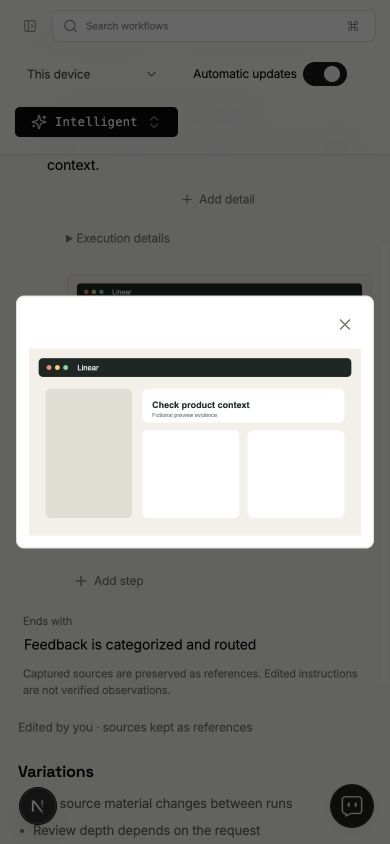
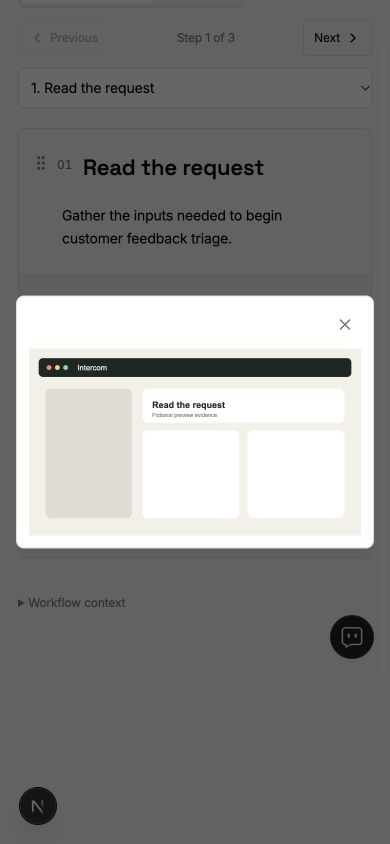
fix(workflows): make walkthrough readable and hide editing clutter

diff --git a/packages/workflows-ui/src/workflow-editor.tsx b/packages/workflows-ui/src/workflow-editor.tsx
@@ -17,6 +17,9 @@ import {
   Info,
   ChevronLeft,
   ChevronRight,
+  PanelsTopLeft,
+  ListOrdered,
+  X,
 } from "lucide-react";
 import type { WorkflowMap, WorkflowStage } from "./model";
 import {
@@ -91,7 +94,7 @@ export function WorkflowEditor({ workflow, save, actions, secondaryActions = [],
     return initial;
   });
   const exports = useWorkflowDocumentExports(draft, downloadDocument);
-  const [view, setView] = useState<"steps" | "walkthrough">("steps");
+  const [view, setView] = useState<"steps" | "walkthrough">("walkthrough");
   const [selectedStep, setSelectedStep] = useState(draft.stages[0]?.key);
   const stepIndex = Math.max(0, draft.stages.findIndex(stage => stage.key === selectedStep));
   const walkthrough = !stepsOnly && view === "walkthrough";
@@ -222,7 +225,7 @@ export function WorkflowEditor({ workflow, save, actions, secondaryActions = [],
     focusField(`Block ${stage.procedure.length + 1} in step ${index + 1}`);
   }
   function insertion(index: number) {
-    return <div className={styles.insertion} hidden={walkthrough && index !== stepIndex}>
+    return <div className={styles.insertion} hidden={walkthrough}>
       <button type="button" aria-label={index === 0 ? "Add step at start" : `Add step after ${index}`}
         title="Add step" disabled={draft.stages.length >= 100} onClick={() => addStage(index)}>
         <Plus size={16} aria-hidden="true" />
@@ -308,7 +311,7 @@ export function WorkflowEditor({ workflow, save, actions, secondaryActions = [],
   return (
     <section
       ref={editorRoot}
-      className={`${styles.editor} ${panel ? styles.withPanel : ""}`}
+      className={`${styles.editor} ${walkthrough ? styles.walkthrough : ""} ${panel ? styles.withPanel : ""}`}
       onMouseUp={event => {
         const selection = window.getSelection(); const value = selection?.toString().trim();
         if (!value || value.length > 1000 || !event.currentTarget.contains(selection?.anchorNode ?? null) || !event.currentTarget.contains(selection?.focusNode ?? null)) return;
@@ -383,15 +386,20 @@ export function WorkflowEditor({ workflow, save, actions, secondaryActions = [],
           </div>
           {stepsOnly ? <p className={styles.readOnlyText}>{workflow.description}</p> : <Text label="Workflow description" value={draft.description} onChange={description => change({ ...draft, description })} />}
         </div>
-        <label className={styles.endpoint}>
+        <label className={styles.endpoint} hidden={walkthrough}>
           Starts when
           {stepsOnly ? <span className={styles.readOnlyText}>{workflow.trigger}</span> : <Text label="Workflow trigger" value={draft.trigger} onChange={trigger => change({ ...draft, trigger })} />}
         </label>
         <div className={styles.stepsHeading}>
           {stepsOnly ? <strong>Steps</strong> : <div role="group" aria-label="Workflow view" className={styles.viewSwitch}>
-            <button type="button" aria-pressed={view === "steps"} onClick={() => setView("steps")}>Steps</button>
-            <button type="button" aria-pressed={view === "walkthrough"} onClick={() => setView("walkthrough")}>Walkthrough</button>
+            <button type="button" aria-pressed={view === "walkthrough"} onClick={() => setView("walkthrough")}><PanelsTopLeft size={16} aria-hidden="true" />Walkthrough</button>
+            <button type="button" aria-pressed={view === "steps"} onClick={() => setView("steps")}><ListOrdered size={16} aria-hidden="true" />Steps</button>
           </div>}
+        {walkthrough && draft.stages.length > 0 && <nav aria-label="Walkthrough navigation" className={styles.walkthroughNavigation}>
+          <button type="button" disabled={stepIndex === 0} onClick={() => chooseStep(stepIndex - 1)}><ChevronLeft size={16} />Previous</button>
+          <span role="status" aria-live="polite">Step {stepIndex + 1} of {draft.stages.length}</span>
+          <button type="button" disabled={stepIndex === draft.stages.length - 1} onClick={() => chooseStep(stepIndex + 1)}>Next<ChevronRight size={16} /></button>
+        </nav>}
           {walkthrough && draft.stages.length > 0 && <select aria-label="Walkthrough step" value={draft.stages[stepIndex].key} onChange={event => chooseStep(draft.stages.findIndex(stage => stage.key === event.target.value))}>
             {draft.stages.map((stage, index) => <option key={stage.key} value={stage.key}>{index + 1}. {stage.name || "Untitled step"}</option>)}
           </select>}
@@ -428,6 +436,8 @@ export function WorkflowEditor({ workflow, save, actions, secondaryActions = [],
                 }
               }}
             >
+              <div className={styles.stepBody}>
+              <div className={styles.instructions}>
               <div className={styles.stepTop}>
                 <div data-step-actions data-open={stepMenu === stage.key || undefined} className={styles.stepControls}
                   onBlur={event => { if (!event.currentTarget.contains(event.relatedTarget as Node)) setStepMenu(null); }}
@@ -476,7 +486,7 @@ export function WorkflowEditor({ workflow, save, actions, secondaryActions = [],
                 {stepMenu === stage.key && <div className={styles.stepMenu} role="dialog" aria-label={`Actions for step ${index + 1}`}>
                   <button type="button" disabled={draft.stages.length >= 100} onClick={() => addStage(index + 1)}><Plus size={15} />Add step below</button>
                   {(!singleCheck || !stage.procedure.length) && <button type="button" disabled={stage.procedure.length >= 100} onClick={() => addDetail(index)}><Plus size={15} />{singleCheck ? "Add expected result" : "Add block"}</button>}
-                  {!stepsOnly && <button type="button" onClick={()=>{setExecutionOpen(stage.key);closeStepMenu(false);}}>Execution details and links</button>}
+                  {!stepsOnly && <button type="button" onClick={()=>{setExecutionOpen(stage.key);closeStepMenu(false);requestAnimationFrame(()=>editorRoot.current?.querySelector<HTMLElement>(`[aria-label="Details for step ${index + 1}"] [contenteditable=true]`)?.focus());}}>Execution details and links</button>}
                   <button type="button" aria-label={`Move step ${index + 1} up`} disabled={index === 0} onClick={() => { closeStepMenu(); moveStage(index, index - 1); }}><ArrowUp size={15} />Move up</button>
                   <button type="button" aria-label={`Move step ${index + 1} down`} disabled={index === draft.stages.length - 1} onClick={() => { closeStepMenu(); moveStage(index, index + 1); }}><ArrowDown size={15} />Move down</button>
                   <button type="button" aria-label={`Delete step ${index + 1}`} disabled={draft.stages.length === 1} onClick={() => {
@@ -502,7 +512,7 @@ export function WorkflowEditor({ workflow, save, actions, secondaryActions = [],
                     ? workflow.stages[stage.sourceIndex]?.timing : null} />
                 </div>
               </div>
-              <div style={{ display: "flex", flexDirection: "column" }}>
+
               <div data-variable-field="description"><Text
                 rich
                 label={`Step ${index + 1} description`}
@@ -639,43 +649,41 @@ export function WorkflowEditor({ workflow, save, actions, secondaryActions = [],
                   </div>
                 ))}
               </div>
-              {(!singleCheck || !stage.procedure.length) && <button type="button" className={styles.addDetail}
+              {(stepsOnly ? !singleCheck || !stage.procedure.length : singleCheck && !stage.procedure.length) && <button type="button" className={styles.addDetail}
                 aria-label={singleCheck ? `Add expected result to step ${index + 1}` : `Add detail to step ${index + 1}`}
                 disabled={stage.procedure.length >= 100} onClick={() => addDetail(index)}>
                 <Plus size={14} aria-hidden="true" />{singleCheck ? "Add expected result" : "Add detail"}
               </button>}
-              {!stepsOnly && <details className={styles.execution} open={executionOpen === stage.key || undefined} onToggle={event=>{if (event.currentTarget.open) setExecutionOpen(stage.key); else if (executionOpen===stage.key) setExecutionOpen(null);}}>
-                <summary>Execution details{stage.linkedWorkflowId ? " · Linked workflow" : ""}</summary>
+              {!stepsOnly && <section className={styles.execution} hidden={executionOpen !== stage.key} aria-label={`Details for step ${index + 1}`} onKeyDown={event => { if (event.key === "Escape") { setExecutionOpen(null); stepMenuTrigger.current?.focus(); } }}>
+                <header><strong>Step details</strong><button type="button" aria-label="Close step details" onClick={() => {setExecutionOpen(null);stepMenuTrigger.current?.focus();}}><X size={16} /></button></header>
                 {Object.entries(executionFields).map(([field,label])=><div key={field} data-variable-field={field}><label>{label}</label><WorkflowRichText label={`${label} for step ${index+1}`} value={stage[field as keyof typeof executionFields] ?? ""} onChange={value=>stageChange(index,{...stage,[field]:value})}/></div>)}
                 <label>Linked workflow<select value={stage.linkedWorkflowId ?? ""} onChange={e=>stageChange(index,{...stage,linkedWorkflowId:e.target.value})}><option value="">None</option>{relatedWorkflows.filter(w=>w.id && w.id!==workflow.id).map(w=><option key={w.id} value={w.id}>{w.title}{w.archived ? " (archived)" : ""}</option>)}</select></label>
-              </details>}
+              </section>}
               {stage.linkedWorkflowId && <button type="button" disabled={dirty || saving || !relatedWorkflows.some(w=>w.id===stage.linkedWorkflowId)} onClick={()=>openRelated?.(stage.linkedWorkflowId!)}>Open linked workflow: {relatedWorkflows.find(w=>w.id===stage.linkedWorkflowId)?.title ?? "Unavailable"}</button>}
-              {stage.sourceIndex !== null && workflow.stages[stage.sourceIndex] && <div className={styles.source} style={stage.imageLayout?.beforeText ? { order: -1 } : undefined}>{renderSource?.({ ...workflow.stages[stage.sourceIndex], imageLayout: stage.imageLayout }, layout => stageChange(index, { ...stage, imageLayout: layout }))}</div>}
+              </div>
+              {stage.sourceIndex !== null && workflow.stages[stage.sourceIndex] && renderSource && <div className={styles.source} style={stage.imageLayout?.beforeText ? { order: -1 } : undefined}>{renderSource?.({ ...workflow.stages[stage.sourceIndex], imageLayout: stage.imageLayout }, layout => stageChange(index, { ...stage, imageLayout: layout }))}</div>}
               </div>
             </article>
             </Fragment>
           ))}
         </div>
-        {walkthrough && draft.stages.length > 0 && <nav aria-label="Walkthrough navigation" className={styles.walkthroughNavigation}>
-          <button type="button" disabled={stepIndex === 0} onClick={() => chooseStep(stepIndex - 1)}><ChevronLeft size={16} />Previous</button>
-          <span role="status" aria-live="polite">Step {stepIndex + 1} of {draft.stages.length}</span>
-          <button type="button" disabled={stepIndex === draft.stages.length - 1} onClick={() => chooseStep(stepIndex + 1)}>Next<ChevronRight size={16} /></button>
-        </nav>}
+
         <button
           type="button"
           className={styles.addStep}
+          hidden={walkthrough}
           disabled={draft.stages.length >= 100}
           onClick={() => addStage(draft.stages.length)}
         >
           <Plus size={16} />
           Add step
         </button>
-        <label className={styles.endpoint}>
+        <label className={styles.endpoint} hidden={walkthrough}>
           Ends with
           {stepsOnly ? <span className={styles.readOnlyText}>{workflow.outcome}</span> : <Text label="Workflow outcome" value={draft.outcome} onChange={outcome => change({ ...draft, outcome })} />}
         </label>
       </fieldset>
-      {panel === "variables" && <WorkflowVariablePanel document={draft} change={change} selected={selectedVariable} select={setSelectedVariable} quote={quote} clearQuote={()=>setQuote(undefined)} source={id=>{setView("steps");requestAnimationFrame(()=>{const element = editorRoot.current?.querySelector<HTMLElement>(`[data-step-id="${id}"]`);element?.scrollIntoView?.({block:"center"}); element?.querySelector<HTMLElement>("textarea,[contenteditable=true]")?.focus();});}} />}
+      {panel === "variables" && <WorkflowVariablePanel document={draft} change={change} selected={selectedVariable} select={setSelectedVariable} quote={quote} clearQuote={()=>setQuote(undefined)} source={id=>{setView("steps");setExecutionOpen(draft.stages.find(stage => stage.id === id)?.key ?? null);requestAnimationFrame(()=>{const element = editorRoot.current?.querySelector<HTMLElement>(`[data-step-id="${id}"]`);element?.scrollIntoView?.({block:"center"}); element?.querySelector<HTMLElement>("textarea,[contenteditable=true]")?.focus();});}} />}
       {panel === "history" && <WorkflowVersionPanel workflow={workflow} disabled={dirty || saving || saveDisabled} restore={async revision=>{
         if (busy.current) return;
         busy.current = true; setSaving(true); setError("");
@@ -696,7 +704,7 @@ export function WorkflowEditor({ workflow, save, actions, secondaryActions = [],
         <p>{draft.archived ? "Archived. Still available in the Archived filter." : "Archiving keeps this workflow and its sources."}</p>
       </aside>}
       </div>
-      {renderSource && <p className={styles.note}>
+      {renderSource && !walkthrough && <p className={styles.note}>
         Captured sources are preserved as references. Edited instructions are
         not verified observations.
       </p>}

diff --git a/packages/workflows-ui/src/workflow-editor.module.css b/packages/workflows-ui/src/workflow-editor.module.css
@@ -37,11 +37,13 @@
 .intro .title { font-family: var(--heading-font); font-size: 30px; font-weight: 600; line-height: 1.25; letter-spacing: -.03em; margin-bottom: 4px; }
 .endpoint { display: block; color: var(--muted); font-size: 11px; padding: 6px 5px; }
 .endpoint textarea { margin-left: -5px; }
-.stepsHeading { display: flex; align-items: center; flex-wrap: wrap; gap: 12px; margin: 18px 0 8px; padding: 0 5px; }
-.viewSwitch { display: flex; padding: 2px; gap: 2px; border: 1px solid var(--line); border-radius: 6px; }
-.viewSwitch button[aria-pressed="true"] { background: var(--soft); color: var(--ink); }
+.stepsHeading { display: flex; align-items: center; flex-wrap: wrap; gap: 12px; margin: 24px 0 16px; padding: 0; }
+.viewSwitch { display: flex; padding: 3px; gap: 3px; background: var(--soft); border: 1px solid var(--line); border-radius: 7px; }
+.editor .viewSwitch button { min-height: 36px; padding: 6px 12px; font-size: 14px; gap: 8px; }
+.viewSwitch button[aria-pressed="true"] { background: var(--panel); color: var(--ink); box-shadow: 0 1px 3px #00000012; font-weight: 550; }
 .stepsHeading select { min-width: 0; max-width: 100%; min-height: 32px; border: 1px solid var(--line); border-radius: 6px; padding: 4px 8px; background: var(--panel); color: var(--ink); font: inherit; font-size: 12px; }
-.walkthroughNavigation { display: flex; align-items: center; justify-content: space-between; gap: 12px; margin: 0 0 16px 49px; padding-top: 12px; border-top: 1px solid var(--line); }
+.walkthroughNavigation { display: flex; align-items: center; gap: 12px; margin-left: auto; }
+.editor .walkthroughNavigation button { min-height: 36px; padding: 6px 10px; border: 1px solid var(--line); color: var(--ink); }
 .walkthroughNavigation span { color: var(--muted); font-size: 12px; }
 .step[hidden], .insertion[hidden] { display: none; }
 .step[tabindex="-1"] { scroll-margin-top: 80px; }
@@ -62,7 +64,7 @@
 .stepMenu { display: flex; flex-direction: column; position: absolute; top: 32px; left: 0; z-index: 3; width: 200px; padding: 4px; border: 1px solid var(--line); border-radius: 6px; background: var(--panel); box-shadow: 0 4px 12px #0000000d; }
 .stepMenu > button { justify-content: flex-start; width: 100%; padding: 7px 6px; gap: 8px; }
 .stepControls > .grip, .blockControls > .grip { opacity: 0; pointer-events: none; transition: opacity .12s ease; }
-.step:hover > .stepTop > .stepControls > .grip, .step:focus-within > .stepTop > .stepControls > .grip,
+.step:hover .stepTop > .stepControls > .grip, .step:focus-within .stepTop > .stepControls > .grip,
 .stepControls[data-open] > .grip,
 .block:hover > .blockControls > .grip, .block:focus-within > .blockControls > .grip,
 .blockControls[data-open] > .grip { opacity: 1; pointer-events: auto; }
@@ -152,7 +154,7 @@
 .editor .addDetail { margin: 4px 0 4px 25px; font-size: 12px; gap: 5px; }
 /* Keep measured timing available without a permanent clock on every row. */
 .stepActions > span, .titleRow > span { opacity: 0; pointer-events: none; }
-.step:hover > .stepTop > .stepActions > span, .step:focus-within > .stepTop > .stepActions > span,
+.step:hover .stepTop > .stepActions > span, .step:focus-within .stepTop > .stepActions > span,
 .titleRow:hover > span, .titleRow:focus-within > span { opacity: 1; pointer-events: auto; }
 @media (hover: none) {
   .insertion > button, .stepActions > span, .titleRow > span { opacity: 1; pointer-events: auto; }
@@ -182,3 +184,33 @@
 @container workflow-editor (max-width: 850px) { .withPanel .documentLayout { grid-template-columns:minmax(0,1fr); } .panel { position:static;max-height:none;grid-row:1; border-left:0;border-bottom:1px solid var(--line);padding:0 0 20px; } }
 
 .editor a[href^="#workflow-io-"] { color:var(--ink); background:var(--soft); border-bottom:1px dashed var(--muted);border-radius:3px;padding:1px 3px;text-decoration:none; }
+
+/* Both views retain the same instructions, source instances and draft. */
+.stepBody { display: flex; flex-direction: column; }
+.instructions { display: contents; }
+.instructions > .stepTop { order: -2; }
+.instructions > [data-variable-field="description"] { margin-left: 24px; }
+.execution[hidden], .editor button[hidden], .endpoint[hidden] { display: none; }
+.execution { padding: 12px; border: 1px solid var(--line); border-radius: 6px; }
+.execution > header { display: flex; justify-content: space-between; align-items: center; }
+.walkthrough { max-width: 1180px; }
+.walkthrough .steps { padding-left: 0; }
+.walkthrough .insertion { display: none; }
+.walkthrough .stepsHeading > select { flex-basis: 100%; width: 100%; min-height: 40px; font-size: 14px; }
+.walkthrough .stepBody { display: grid; grid-template-columns: minmax(0, 1.3fr) minmax(0, 1fr); border: 1px solid var(--line); border-radius: 8px; }
+.walkthrough .instructions { display: block; min-width: 0; grid-column: 2; grid-row: 1; padding: 24px 24px 24px 44px; }
+.walkthrough .instructions:only-child { grid-column: 1 / -1; }
+.walkthrough .source { grid-column: 1; grid-row: 1; margin: 0; padding: 20px; background: var(--soft); border-right: 1px solid var(--line); }
+.walkthrough .step .title { font-size: 22px; line-height: 1.35; }
+.walkthrough .stepTop { margin-bottom: 12px; }
+.walkthrough .blocks, .walkthrough .instructions > [data-variable-field="description"] { margin-left: 0; }
+.walkthrough .block { grid-template-columns: minmax(0, 1fr); margin: 8px 0; }
+.walkthrough .kindLabel { grid-column: 1; grid-row: 2; opacity: 0; height: 0; overflow: hidden; }
+.walkthrough .block:hover .kindLabel, .walkthrough .block:focus-within .kindLabel { opacity: 1; height: auto; overflow: visible; }
+.walkthrough .stepControls > .grip { opacity: 1; pointer-events: auto; }
+@container workflow-editor (max-width: 760px) {
+  .walkthrough .stepBody { grid-template-columns: minmax(0, 1fr); }
+  .walkthrough .instructions { grid-column: 1; grid-row: 1; padding: 20px 16px 20px 38px; }
+  .walkthrough .source { grid-column: 1; grid-row: 2; border-right: 0; border-top: 1px solid var(--line); padding: 16px; }
+  .walkthroughNavigation { margin-left: 0; flex: 1; justify-content: space-between; }
+}

diff --git a/apps/screenpipe-app-tauri/components/workflows/step-evidence.test.tsx b/apps/screenpipe-app-tauri/components/workflows/step-evidence.test.tsx
@@ -59,7 +59,7 @@ describe("missing attached screenshots", () => {
       expect(load).not.toHaveBeenCalled();
       act(() => observe([{ isIntersecting: true }]));
       expect(await screen.findByRole("img")).toBeVisible();
-      expect(disconnect).not.toHaveBeenCalled();
+      expect(disconnect).toHaveBeenCalled();
     } finally { cleanup(); vi.unstubAllGlobals(); }
   });
   it("tries another source when the first capture is unavailable", async () => {
@@ -204,7 +204,7 @@ describe("step evidence media", () => {
 
 
 describe("recorder references", () => {
-  it("loads each reference only while visible and releases its image off screen", async () => {
+  it("loads references lazily, retains them off screen, and releases them on unmount", async () => {
     const observers = new Map<Element, (entries: { isIntersecting: boolean }[]) => void>();
     vi.stubGlobal("IntersectionObserver", class {
       callback: (entries: { isIntersecting: boolean }[]) => void;
@@ -218,19 +218,24 @@ describe("recorder references", () => {
     const second = { ...first, frameId: 9002, timestamp: "2026-09-22T11:02:00Z" };
     const load = vi.fn().mockImplementation(async (_timestamp, _app, _signal, id) => ({ ...(id === first.frameId ? first : second), dataUrl: `blob:${id}` }));
     try {
-      const { container } = render(<WorkflowStepEvidence workflow={workflow} stage={{ ...stage, screenshot: null, screenshots: [first, second] }} platform={{ loadWorkflowScreenshot: load } as unknown as WorkflowsPlatform} />);
+      const { container, unmount } = render(<WorkflowStepEvidence workflow={workflow} stage={{ ...stage, screenshot: null, screenshots: [first, second] }} platform={{ loadWorkflowScreenshot: load } as unknown as WorkflowsPlatform} />);
       const figures = container.querySelectorAll("figure");
       expect(load).not.toHaveBeenCalled();
       act(() => observers.get(figures[0])!([{ isIntersecting: true }]));
       await screen.findByRole("img");
       expect(load).toHaveBeenCalledTimes(1);
       act(() => observers.get(figures[0])!([{ isIntersecting: false }]));
-      await waitFor(() => expect(revoke).toHaveBeenCalledWith(`blob:${first.frameId}`));
-      expect(load.mock.calls[0][2].aborted).toBe(true);
-      expect(screen.queryByRole("img")).toBeNull();
+      expect(revoke).not.toHaveBeenCalled();
+      expect(load.mock.calls[0][2].aborted).toBe(false);
+      expect(screen.getByRole("img")).toHaveAttribute("src", `blob:${first.frameId}`);
       act(() => observers.get(figures[1])!([{ isIntersecting: true }]));
-      expect(await screen.findByRole("img")).toHaveAttribute("src", "blob:9002");
+      await waitFor(() => expect(screen.getAllByRole("img")).toHaveLength(2));
+      expect(screen.getAllByRole("img")[1]).toHaveAttribute("src", "blob:9002");
       expect(load).toHaveBeenCalledTimes(2);
+      unmount();
+      expect(revoke).toHaveBeenCalledWith(`blob:${first.frameId}`);
+      expect(revoke).toHaveBeenCalledWith("blob:9002");
+      expect(load.mock.calls.every(call => call[2].aborted)).toBe(true);
     } finally { cleanup(); vi.unstubAllGlobals(); }
   });
 

diff --git a/apps/screenpipe-app-tauri/lib/workflows/workflow-walkthrough.test.tsx b/apps/screenpipe-app-tauri/lib/workflows/workflow-walkthrough.test.tsx
@@ -20,7 +20,9 @@ function editor(stepsOnly = false) {
 
 it("shows one editable step, bounds navigation, and never saves a view change", () => {
   const { change, save } = editor();
-  expect(title(3)).toBeVisible();
+  expect(screen.queryByRole("textbox", { name: "Step 3 title" })).toBeNull();
+  expect(screen.queryByRole("button", { name: "Add step at start" })).toBeNull();
+  expect(screen.queryByRole("textbox", { name: "Workflow trigger" })).toBeNull();
   fireEvent.click(button("Walkthrough"));
   expect(button("Walkthrough")).toHaveAttribute("aria-pressed", "true");
   expect(title(1)).toBeVisible();
@@ -82,6 +84,36 @@ it("leaves the cloud steps-only consumer's view controls with its host", () => {
   editor(true);
   expect(screen.queryByRole("group", { name: "Workflow view" })).toBeNull();
   expect(title(3)).toBeVisible();
+});
+
+it("keeps secondary step editing behind the step menu in both views", () => {
+  const { change } = editor();
+  for (const view of ["Walkthrough", "Steps"]) {
+    fireEvent.click(button(view));
+    expect(screen.queryByRole("button", { name: "Add detail to step 1" })).toBeNull();
+    expect(screen.queryByRole("region", { name: "Details for step 1" })).toBeNull();
+    fireEvent.click(button("Step 1 actions"));
+    fireEvent.click(button("Execution details and links"));
+    const details = screen.getByRole("region", { name: "Details for step 1" });
+    expect(within(details).getByRole("textbox", { name: "Required access for step 1" })).toBeVisible();
+    fireEvent.click(button("Close step details"));
+    expect(details).not.toBeVisible();
+  }
+  fireEvent.click(button("Step 1 actions"));
+  fireEvent.click(button("Add block"));
+  expect(change.mock.lastCall![0].stages[0].procedure).toHaveLength((workflow().stages[0].procedure?.length ?? 0) + 1);
+});
+
+it("keeps the same evidence mounted while switching presentation", () => {
+  const source = workflow();
+  render(<WorkflowEditor workflow={source} save={vi.fn()} sessionRecovery={false} saveDisabled renderSource={stage => <img alt={stage.name} src={stage.screenshot!.dataUrl} />} />);
+  const image = screen.getByRole("img", { name: source.stages[0].name });
+  fireEvent.click(button("Steps"));
+  expect(screen.getByRole("img", { name: source.stages[0].name })).toBe(image);
+  fireEvent.click(button("Walkthrough"));
+  fireEvent.click(button("Next"));
+  fireEvent.click(button("Previous"));
+  expect(screen.getByRole("img", { name: source.stages[0].name })).toBe(image);
 });
 
 it("enlarges an existing screenshot without selecting, deleting or reordering it", () => {

diff --git a/packages/workflows-ui/src/workflows-app.tsx b/packages/workflows-ui/src/workflows-app.tsx
@@ -747,6 +747,8 @@ export function WorkflowDetail({ breadcrumb, relatedWorkflows, openRelated, edit
       {breadcrumb}
       {saveEdits ? <WorkflowEditor {...editorOptions} relatedWorkflows={relatedWorkflows} openRelated={openRelated} key={workflow.id || workflow.title} workflow={workflow} save={saveEdits} actions={workflowActions} secondaryActions={secondaryActions} downloadDocument={platform.library?.downloadDocument} renderSource={observationsAvailable ? (stage, onImageLayoutChange) => <WorkflowStepEvidence workflow={workflow} stage={stage} platform={platform} onImageLayoutChange={onImageLayoutChange} /> : undefined} /> : <WorkflowDocument workflow={workflow} actions={workflowActions} secondaryActions={secondaryActions} downloadDocument={platform.library?.downloadDocument} sourceLabel={sourceLabel}
         renderSource={observationsAvailable ? stage => <WorkflowStepEvidence workflow={workflow} stage={stage} platform={platform} /> : undefined} />}
+      <details className={styles.workflowContext}>
+      <summary>Workflow context</summary>
       <div className={styles.workflowNotes}>
       <p className={styles.workflowReviewState}>{workflow.userEditedAt ? ui("Edited by you · sources kept as references") : workflow.evidenceStatus === "supported-steps" ? ui("Source-backed steps · not execution-tested") : ui("Needs review")}</p>
       {saveCorrection && !platform.assistant?.saveFeedback && <WorkflowCorrection key={`correction:${workflow.title}`} workflow={workflow} save={saveCorrection} />}
@@ -770,6 +772,7 @@ export function WorkflowDetail({ breadcrumb, relatedWorkflows, openRelated, edit
 
 
       </div>
+      </details>
       {skillOpen && <WorkflowSkillDialog workflow={workflow} draft={skillDraft} generating={skillGenerating} saving={skillSaving} saved={skillSaved} preview={platform.skillInstallMode === "preview"} progress={skillProgress} error={skillError} update={draft => {
         setSkillDraft(draft);
         if (platform.library) void platform.library.saveSkillDraft(guideKey(workflow), draft).catch(() => setSkillError("Could not save your skill changes. Try again before leaving."));

diff --git a/packages/workflows-ui/src/workflows-app.module.css b/packages/workflows-ui/src/workflows-app.module.css
@@ -823,3 +823,7 @@
 
 .catalogFilters { display:flex;flex-wrap:wrap;gap:16px;margin:0 0 20px;color:var(--muted);font-size:12px; }
 .catalogFilters select { background:var(--panel);color:var(--ink);border:1px solid var(--line);padding:6px;font:inherit; }
+
+.workflowContext { max-width: 1180px; margin: 20px auto 0; }
+.workflowContext > summary { width: fit-content; cursor: pointer; font-size: 12px; color: var(--muted); padding: 8px 0; }
+.workflowContext > summary:focus-visible { outline: 2px solid var(--ink); outline-offset: 2px; }
